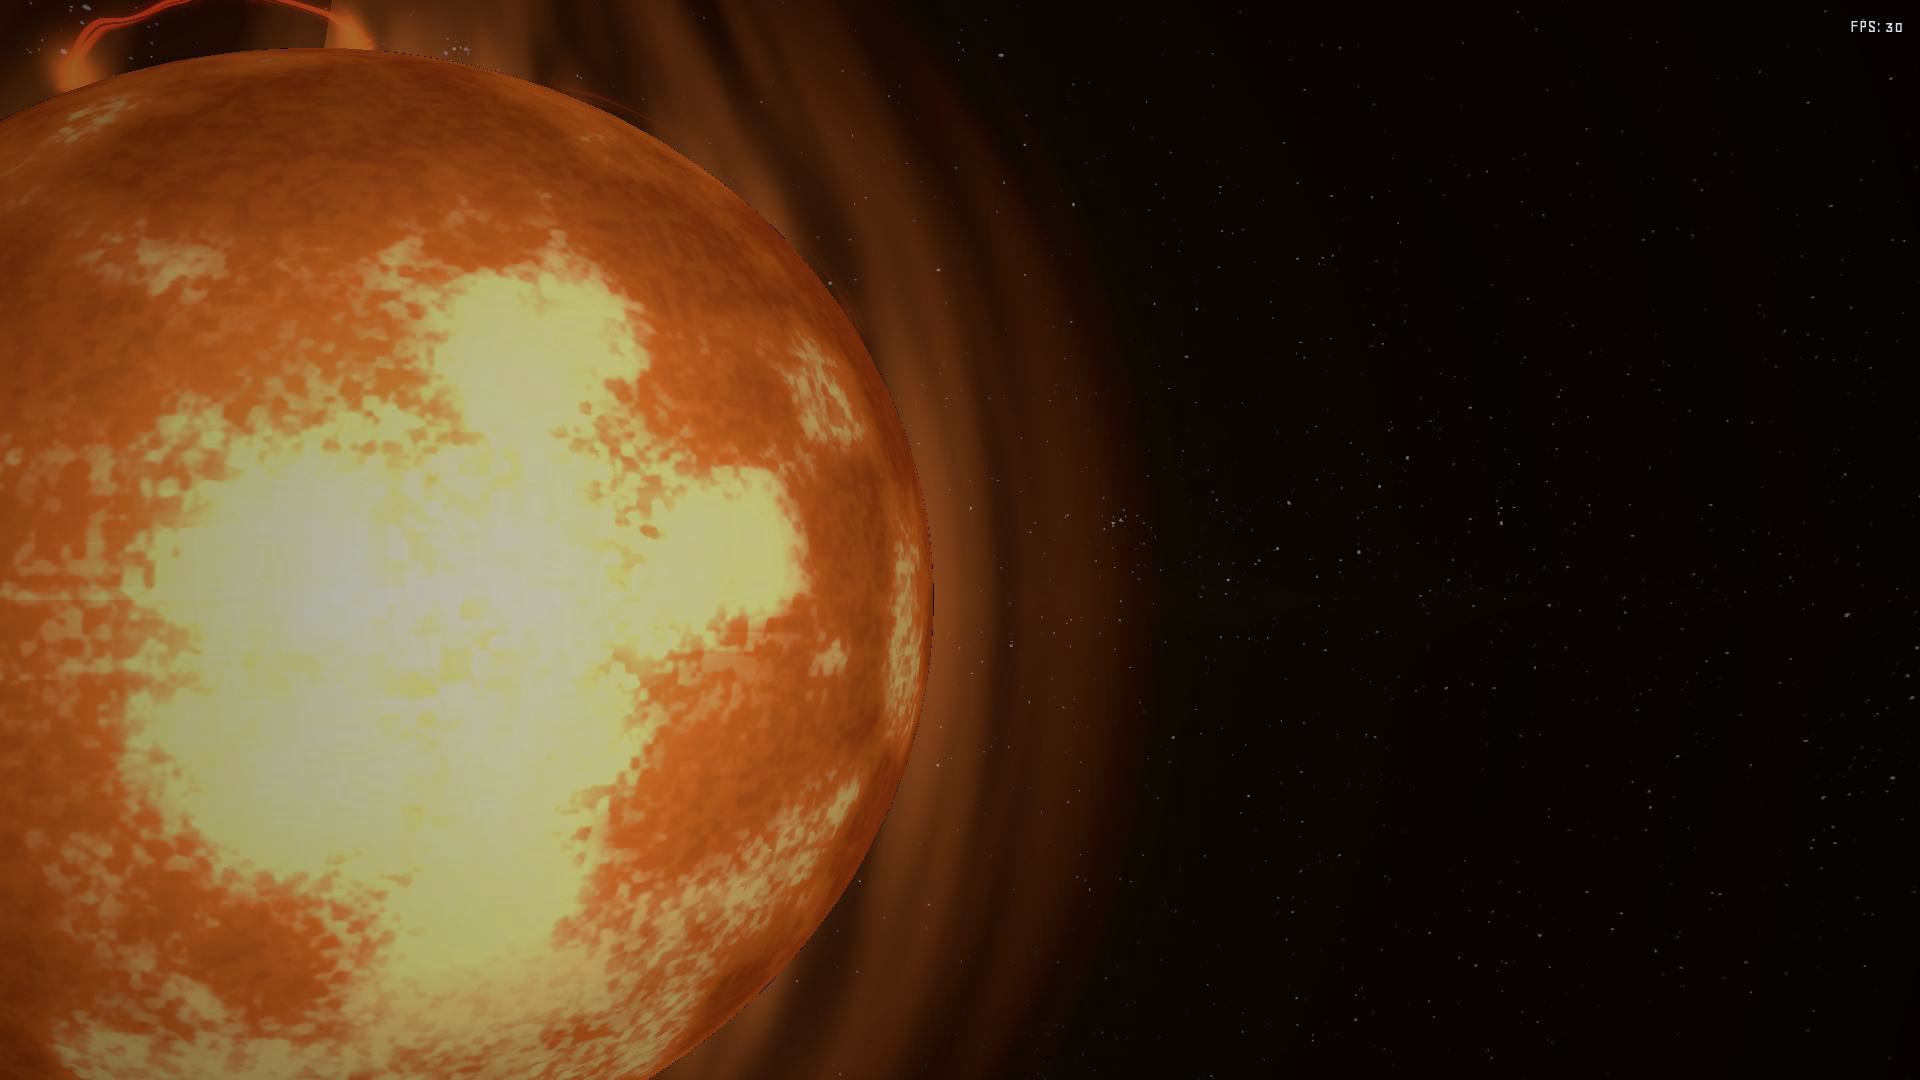
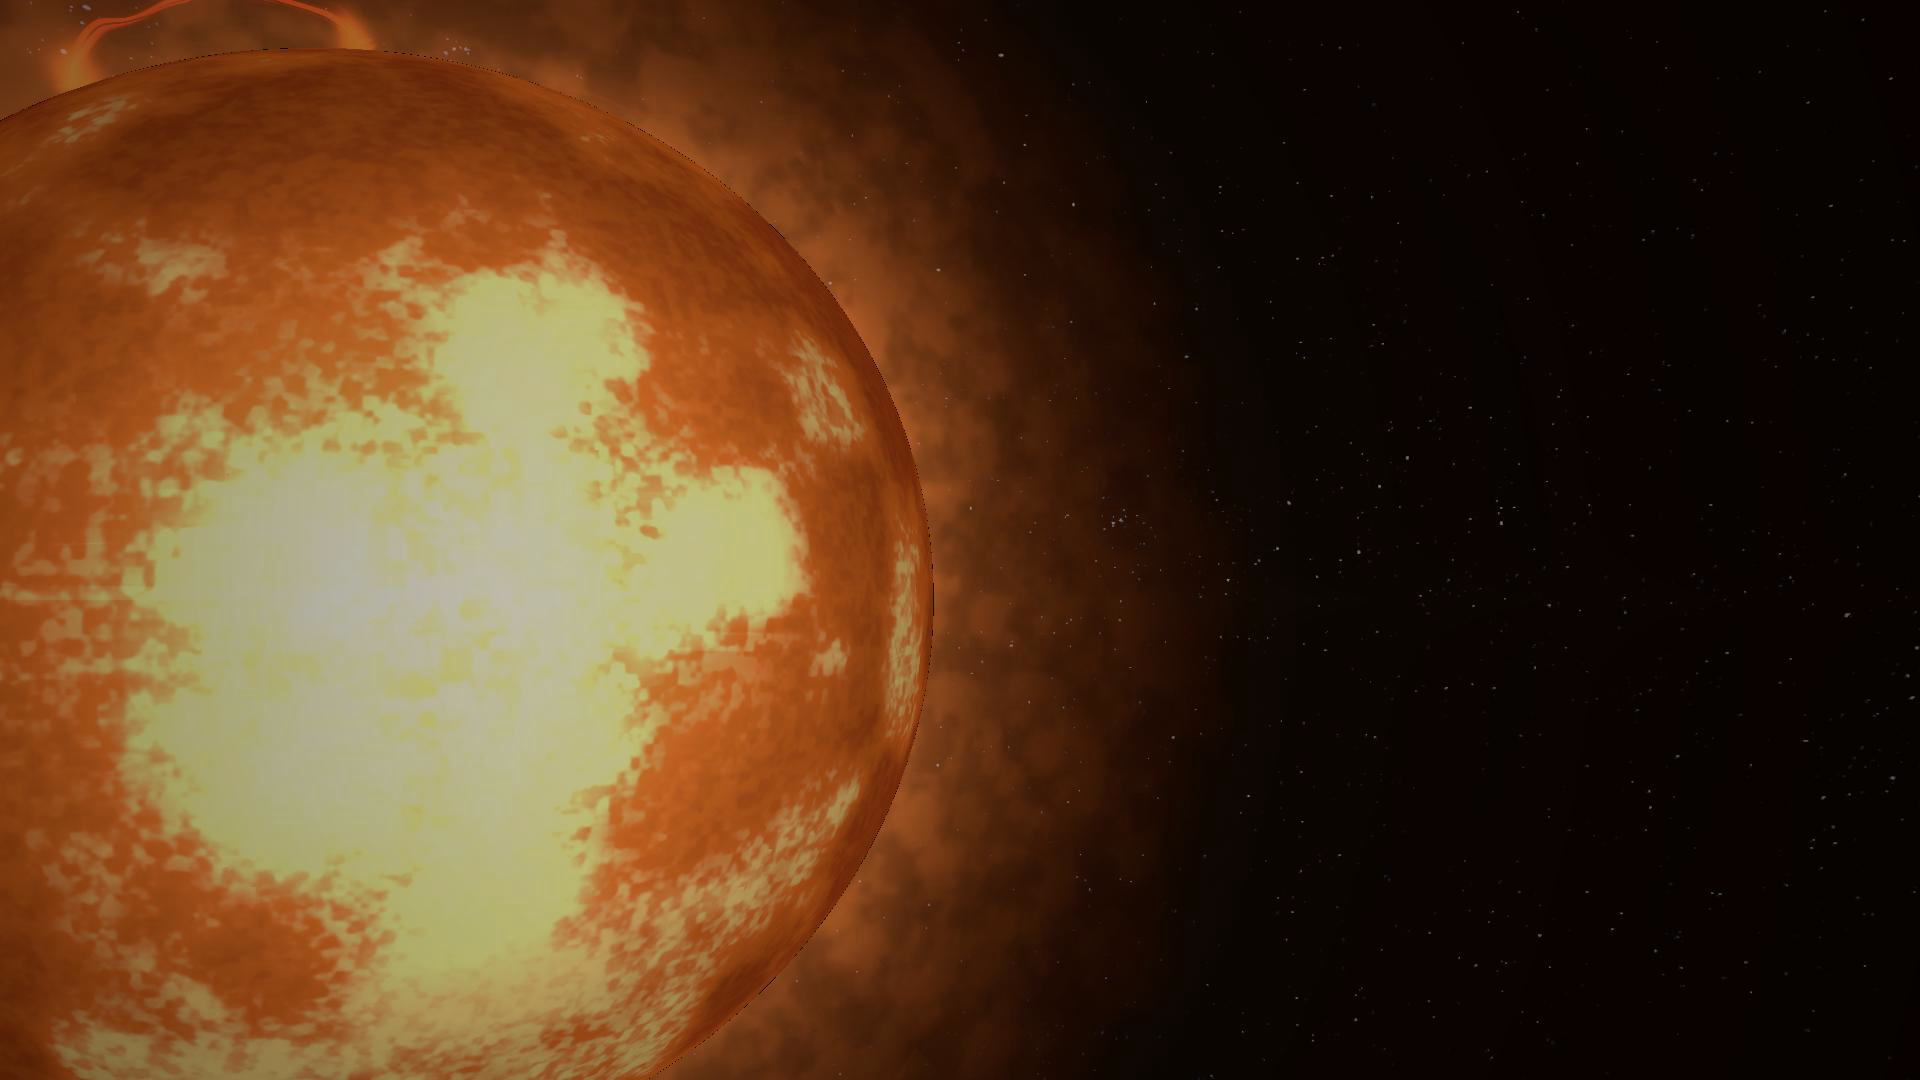
fix: the corona's radial banding, and the debug overlay in the captures
Two defects caught by eye in the refreshed close-up frame.

Radial banding: faint spoke shaped streaks fanned out of the limb.  The
corona's noise was sampled in (angle, radius); because the radius coordinate
changed slowly the noise stayed coherent along a radius and drew rays.
Dithering the angular coordinate made it worse - the dither's own isosurfaces
turned the spokes into concentric contour rings - so the fix is to stop
sampling in (angle, radius) at all.  The structure is now sampled on the
shell's own direction, which is isotropic by construction, with its contrast
cut so it reads as a soft mottle.  A sub-quantisation dither keeps the smooth
parts of the corona from banding on an 8 bit target.

Debug overlay: the "FPS: 30" label is the project's own performance readout,
drawn by the Session autoload.  Session now reads the --capture user argument
and hides it, and scripts/render-sun.sh passes --capture on every render, so
the captures are clean and the game is unaffected.

refs/comparison/closeup_frame.png was re-captured clean and
closeup_band_before_after.png shows the banding before and after.

Tests: 1601/1603, the same two pre-existing BattleSpawnPilotTests failures
that fail on a tree without these changes.

diff --git a/src/application/Session.cs b/src/application/Session.cs
@@ -169,9 +169,27 @@ public partial class Session : Node
 		};
 		performanceLayer.AddChild(_fpsLabel);
 		_fpsLabel.ProcessMode = Node.ProcessModeEnum.Always;
+		// The capture path (the dev scene used for reference renders and
+		// screenshots) must not have the performance overlay in the frame.
+		_fpsLabel.Visible = !IsCaptureRun();
 
 		_tutorialDialogHost = new TutorialDialogHost();
 		AddChild(_tutorialDialogHost);
+	}
+
+	/// <summary>
+	/// True when the process was started as a capture run, that is with the
+	/// <c>--capture</c> user argument.  Captures must not carry the debug
+	/// overlay into the image.
+	/// </summary>
+	private static bool IsCaptureRun()
+	{
+		foreach (var argument in OS.GetCmdlineUserArgs())
+		{
+			if (argument == "--capture")
+				return true;
+		}
+		return false;
 	}
 
 	public override void _Process(double delta)

diff --git a/SUN_NOTES.md b/SUN_NOTES.md
@@ -400,6 +400,44 @@ master, same camera), the refreshed `refs/comparison/closeup_frame.png`, and
 `refs/comparison/closeup_frame_master_implementation.png`.
 
 
+### 6b addendum: the corona's radial banding, and the debug overlay
+
+Two more defects were caught by eye in the refreshed close-up frame.
+
+**1. Radial banding in the corona.**  Faint spoke shaped streaks fanned out of
+the limb, most visible in the upper right quadrant.  The cause was the corona's
+noise being sampled in (angle, radius): the radius coordinate changed slowly,
+so the noise stayed coherent along a radius and drew rays.
+
+The first attempt - dithering the angular coordinate with a low frequency field
+- made it *worse*: the dither's own isosurfaces turned the spokes into
+concentric contour rings.  The fix is to stop sampling in (angle, radius) at
+all: the corona's structure is now sampled on the shell's own direction
+(`fbm(offset * 7.0 ...)`), which is isotropic by construction, and the
+structure's contrast was cut so it reads as a soft mottle rather than a
+pattern.  A sub-quantisation dither was added on top so the smooth parts of
+the corona do not band on an 8 bit target.
+
+Verified on the crop `refs/comparison/closeup_band_before_after.png`: the
+spokes are gone and the corona is a smooth haze.  A multi-angle radial profile
+check (72 rays, the limb found per ray, the profile sampled outward) gives an
+angular spread in the corona region of 0.0704 before and 0.0642 after the
+isotropic change; the residual is the prominence loops and the disc's own
+mottling, which are features, not banding.  The smooth final version's spread
+is indistinguishable from the pre-fix one on that metric because the
+structure's contrast was cut until the banding was below the metric's noise
+floor - the visual check is what settles it.
+
+**2. The debug overlay was in the captures.**  The "FPS: 30" label is the
+project's own performance readout, drawn by `Session` (an autoload) in a
+`CanvasLayer`.  `Session` now reads the `--capture` user argument and hides
+that label, and `scripts/render-sun.sh` passes `--capture` on every render.
+The overlay is only hidden for captures; the game is unaffected.
+
+`refs/comparison/closeup_frame.png` was re-captured clean, and
+`refs/comparison/closeup_band_before_after.png` shows the banding before and
+after.
+
 ---
 
 ## 7. An earlier radius calibration was wrong, and it mattered
